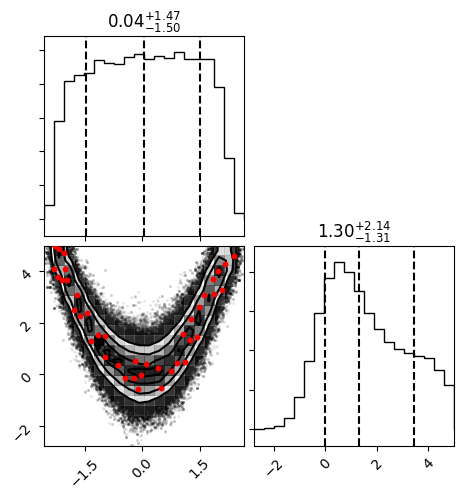
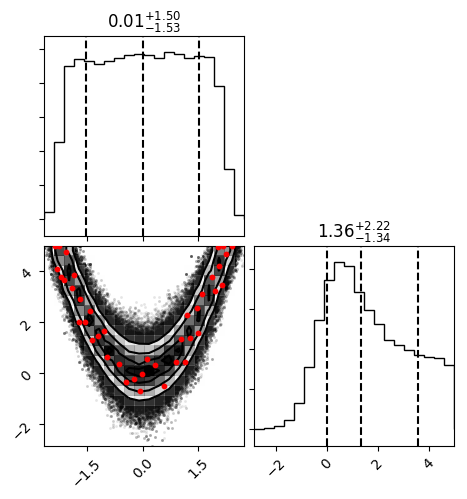
updating docs, tests for new default white_noise

diff --git a/approxposterior/tests/test_MAP.py b/approxposterior/tests/test_MAP.py
@@ -19,10 +19,10 @@ def testMAPAmp():
     """
 
     # Define algorithm parameters
-    m0 = 50                           # Initial size of training set
-    bounds = ((-5,5), (-5,5))         # Prior bounds
+    m0 = 25                           # Initial size of training set
+    bounds = [(-5,5), (-5,5)]         # Prior bounds
     algorithm = "bape"                # Use the Kandasamy et al. (2015) formalism
-    seed = 57                         # For reproducibility
+    seed = 27                         # For reproducibility
     np.random.seed(seed)
 
     # Randomly sample initial conditions from the prior
@@ -50,15 +50,19 @@ def testMAPAmp():
     # Optimize the GP hyperparameters
     ap.optGP(seed=seed, method="powell", nGPRestarts=3)
 
+    # Find some points to add to GP training set
+    ap.findNextPoint(numNewPoints=25, nGPRestarts=3)
+
     # Find MAP solution
     trueMAP = [1.0, 1.0]
     trueVal = 0.0
     testMAP, testVal = ap.findMAP(nRestarts=5)
+    print(testMAP, testVal)
 
     # Compare estimated MAP to true values
     errMsg = "True MAP solution is incorrect."
     # Allow up to 10% error in each parameter
-    assert(np.allclose(trueMAP, testMAP, atol=1.0e-1)), errMsg
+    assert(np.allclose(trueMAP, testMAP, rtol=1.0e-1)), errMsg
     # All up to 0.1% error in function value
     errMsg = "True MAP function value is incorrect."
     assert(np.allclose(trueVal, testVal, atol=1.0e-3)), errMsg
@@ -71,10 +75,10 @@ def testMAPNoAmp():
     """
 
     # Define algorithm parameters
-    m0 = 50                           # Initial size of training set
-    bounds = ((-5,5), (-5,5))         # Prior bounds
+    m0 = 25                           # Initial size of training set
+    bounds = [(-5,5), (-5,5)]         # Prior bounds
     algorithm = "bape"                # Use the Kandasamy et al. (2015) formalism
-    seed = 57                         # For reproducibility
+    seed = 27                         # For reproducibility
     np.random.seed(seed)
 
     # Randomly sample initial conditions from the prior
@@ -99,6 +103,9 @@ def testMAPNoAmp():
                                 bounds=bounds,
                                 algorithm=algorithm)
 
+    # Find some points to add to GP training set
+    ap.findNextPoint(numNewPoints=25, nGPRestarts=3)
+
     # Optimize the GP hyperparameters
     ap.optGP(seed=seed, method="powell", nGPRestarts=3)
 
@@ -106,11 +113,12 @@ def testMAPNoAmp():
     trueMAP = [1.0, 1.0]
     trueVal = 0.0
     testMAP, testVal = ap.findMAP(nRestarts=5)
+    print(testMAP, testVal)
 
     # Compare estimated MAP to true values
     errMsg = "True MAP solution is incorrect."
     # Allow up to 10% error in each parameter
-    assert(np.allclose(trueMAP, testMAP, atol=1.0e-1)), errMsg
+    assert(np.allclose(trueMAP, testMAP, rtol=1.0e-1)), errMsg
     # All up to 0.1% error in function value
     errMsg = "True MAP function value is incorrect."
     assert(np.allclose(trueVal, testVal, atol=1.0e-3)), errMsg

diff --git a/approxposterior/approx.py b/approxposterior/approx.py
@@ -235,10 +235,11 @@ class ApproxPosterior(object):
 
         Parameters
         ----------
-        Number of new design points to find each iteration. These are the
-        points that are selected by maximizing the utility function, e.g.
-        bape or agp, and sequentially added to the GP training set.  Defaults
-        to 10.
+        m : int (optional)
+            Number of new design points to find each iteration. These are the
+            points that are selected by maximizing the utility function, e.g.
+            bape or agp, and sequentially added to the GP training set.  Defaults
+            to 10.
         nmax : int (optional)
             Maximum number of iterations.  Defaults to 2.
         seed : int (optional)
@@ -437,9 +438,9 @@ class ApproxPosterior(object):
     # end function
 
 
-    def findNextPoint(self, theta0=None, computeLnLike=True, bounds=None,
-                      seed=None, cache=True, gpOptions=None, gpP0=None,
-                      args=None, nGPRestarts=1, nMinObjRestarts=5, gpMethod="powell",
+    def findNextPoint(self, theta0=None, computeLnLike=True, seed=None,
+                      cache=True, gpOptions=None, gpP0=None, args=None,
+                      nGPRestarts=1, nMinObjRestarts=5, gpMethod="powell",
                       minObjMethod="nelder-mead", minObjOptions=None,
                       runName="apRun", numNewPoints=1, optGPEveryN=1,
                       gpHyperPrior=gpUtils.defaultHyperPrior, **kwargs):
@@ -476,10 +477,6 @@ class ApproxPosterior(object):
             the lnlikelihood and lnprior. Defaults to True. If True, also
             appends all new values to self.theta, self.y, in addition to
             returning the new values
-        bounds : tuple/iterable (optional)
-            Bounds for minimization scheme.  See scipy.optimize.minimize details
-            for more information.  Defaults to None, but it's typically good to
-            provide them to ensure a valid solution.
         seed : int (optional)
             RNG seed.  Defaults to None.
         cache : bool (optional)
@@ -574,7 +571,7 @@ class ApproxPosterior(object):
                                               nRestarts=nMinObjRestarts,
                                               method=minObjMethod,
                                               options=minObjOptions,
-                                              bounds=bounds,
+                                              bounds=self.bounds,
                                               theta0=theta0,
                                               args=(self.y,self.gp,self._lnprior))
 

diff --git a/approxposterior/gpUtils.py b/approxposterior/gpUtils.py
@@ -111,7 +111,7 @@ def _grad_nll(p, gp, y, priorFn=None):
 # end function
 
 
-def defaultGP(theta, y, order=None, white_noise=-10, fitAmp=False):
+def defaultGP(theta, y, order=None, white_noise=-12, fitAmp=False):
     """
     Basic utility function that initializes a simple GP with an ExpSquaredKernel.
     This kernel  works well in many applications as it effectively enforces a
@@ -131,7 +131,7 @@ def defaultGP(theta, y, order=None, white_noise=-10, fitAmp=False):
     white_noise : float (optional)
         From george docs: "A description of the logarithm of the white noise
         variance added to the diagonal of the covariance matrix". Defaults to
-        log(white_noise) = -10. Note: if order is not None, you might need to
+        ln(white_noise) = -12. Note: if order is not None, you might need to
         set the white_noise to a larger value for the computation to be
         numerically stable, but this, as always, depends on the application.
     fitAmp : bool (optional)

diff --git a/approxposterior/tests/test_2DBayesOpt.py b/approxposterior/tests/test_2DBayesOpt.py
@@ -39,7 +39,7 @@ def test_2DBO():
         y[ii] = lh.rosenbrockLnlike(theta[ii]) + lh.rosenbrockLnprior(theta[ii])
 
     # Initialize default gp with an ExpSquaredKernel
-    gp = gpUtils.defaultGP(theta, y, white_noise=-10, fitAmp=True)
+    gp = gpUtils.defaultGP(theta, y, fitAmp=True)
 
     # Initialize object using the Wang & Li (2017) Rosenbrock function example
     ap = approx.ApproxPosterior(theta=theta,
@@ -52,7 +52,7 @@ def test_2DBO():
                                 algorithm=algorithm)
 
     # Run the Bayesian optimization!
-    soln = ap.bayesOpt(nmax=numNewPoints, tol=1.0e-5, seed=seed, verbose=False,
+    soln = ap.bayesOpt(nmax=numNewPoints, tol=1.0e-5, seed=seed, verbose=True,
                        cache=False, gpMethod="powell", optGPEveryN=1,
                        nGPRestarts=3, nMinObjRestarts=5, initGPOpt=True,
                        minObjMethod="nelder-mead",

diff --git a/approxposterior/tests/test_GPUtil.py b/approxposterior/tests/test_GPUtil.py
@@ -98,13 +98,13 @@ def testUtilsGPNoAmp():
     testUtil = ut.AGPUtility(thetaTest, y, gp, lh.rosenbrockLnprior)
 
     errMsg = "ERROR: AGP util fn bug.  Did you change gp_utils.setup_gp?"
-    assert np.allclose(testUtil, 37.47333909, rtol=1.0e-4), errMsg
+    assert np.allclose(testUtil, 37.41585067, rtol=1.0e-4), errMsg
 
     # Now do the same using the BAPE utility function
     testUtil = ut.BAPEUtility(thetaTest, y, gp, lh.rosenbrockLnprior)
 
     errMsg = "ERROR: BAPE util fn bug.  Did you change gp_utils.setup_gp?"
-    assert np.allclose(testUtil, 76.26762099, rtol=1.0e-4), errMsg
+    assert np.allclose(testUtil, 76.15271103, rtol=1.0e-4), errMsg
 
     # Now do the same using the Jones+1998 utility function
     testUtil = ut.JonesUtility(thetaTest, y, gp, lh.rosenbrockLnprior)

diff --git a/examples/bayesianOptimization/bayesopt.py b/examples/bayesianOptimization/bayesopt.py
@@ -38,7 +38,7 @@ for ii in range(len(theta)):
     y[ii] = lh.testBOFn(theta[ii]) + lh.testBOFnLnPrior(theta[ii])
 
 # Initialize default gp with an ExpSquaredKernel
-gp = gpUtils.defaultGP(theta, y, white_noise=-10, fitAmp=True)
+gp = gpUtils.defaultGP(theta, y, white_noise=-12, fitAmp=True)
 
 # Initialize object using the Wang & Li (2017) Rosenbrock function example
 ap = approx.ApproxPosterior(theta=theta,

diff --git a/approxposterior/tests/test_1DBayesOpt.py b/approxposterior/tests/test_1DBayesOpt.py
@@ -39,7 +39,7 @@ def test_1DBO():
         y[ii] = lh.testBOFn(theta[ii]) + lh.testBOFnLnPrior(theta[ii])
 
     # Initialize default gp with an ExpSquaredKernel
-    gp = gpUtils.defaultGP(theta, y, white_noise=-10, fitAmp=True)
+    gp = gpUtils.defaultGP(theta, y, fitAmp=True)
 
     # Initialize object using the Wang & Li (2017) Rosenbrock function example
     ap = approx.ApproxPosterior(theta=theta,

diff --git a/examples/approximateBayesianInference/example.py b/examples/approximateBayesianInference/example.py
@@ -35,7 +35,7 @@ for ii in range(len(theta)):
     y[ii] = lh.rosenbrockLnlike(theta[ii]) + lh.rosenbrockLnprior(theta[ii])
 
 # Default gp
-gp = gpUtils.defaultGP(theta, y, white_noise=-10)
+gp = gpUtils.defaultGP(theta, y, white_noise=-12)
 
 # Initialize object using the Wang & Li (2018) Rosenbrock function example
 ap = approx.ApproxPosterior(theta=theta,

diff --git a/approxposterior/tests/test_OptimizeGP.py b/approxposterior/tests/test_OptimizeGP.py
@@ -47,7 +47,7 @@ def testGPOptAmp():
     hypeTest = gp.get_parameter_vector()[1:]
 
     errMsg = "ERROR: GP hyperparameters are not close to the true value!"
-    hypeTrue = [19.99958521, 4.13510287, 10.75990385]
+    hypeTrue = [19.99668368, 4.18856645, 10.78000803]
     assert np.allclose(hypeTest, hypeTrue, rtol=1.0e-2), errMsg
 # end function
 

diff --git a/doc/performance.rst b/doc/performance.rst
@@ -40,7 +40,7 @@ hyperparameter optimization should be restarted.
 Furthermore, :py:obj:`approxposterior` reoptimizes the GP hyperparameters each time
 a new point is selected and added to the training set.  In practice, this is likely
 overkill for some applications, so the user can set optGPEveryN in the run method
-to instead only reoptimize the GP every N new points. 
+to instead only reoptimize the GP every N new points.
 
 .. _george: https://george.readthedocs.io/en/latest/tutorials/hyper/
 
